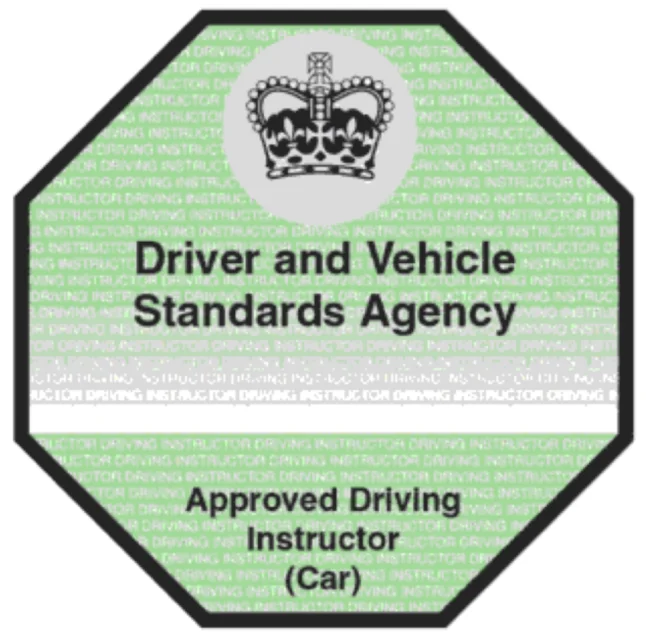
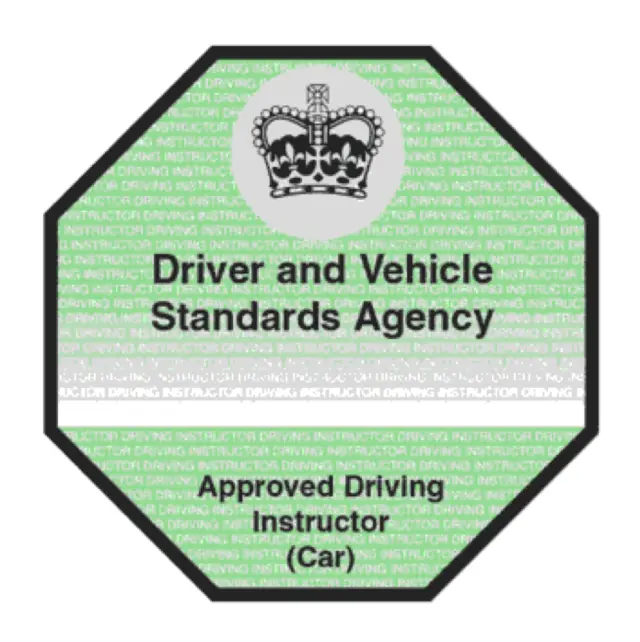
Fix badge alignment

diff --git a/components/Badge.vue b/components/Badge.vue
@@ -6,7 +6,7 @@ defineProps<{
 
 <template>
   <div class="d-flex flex-column align-center">
-    <img :src="imageUrl" style="width: 100px" />
+    <img :src="imageUrl" style="height: 100px" />
     <p class="text-center font-weight-bold mt-5">
       <slot />
     </p>
